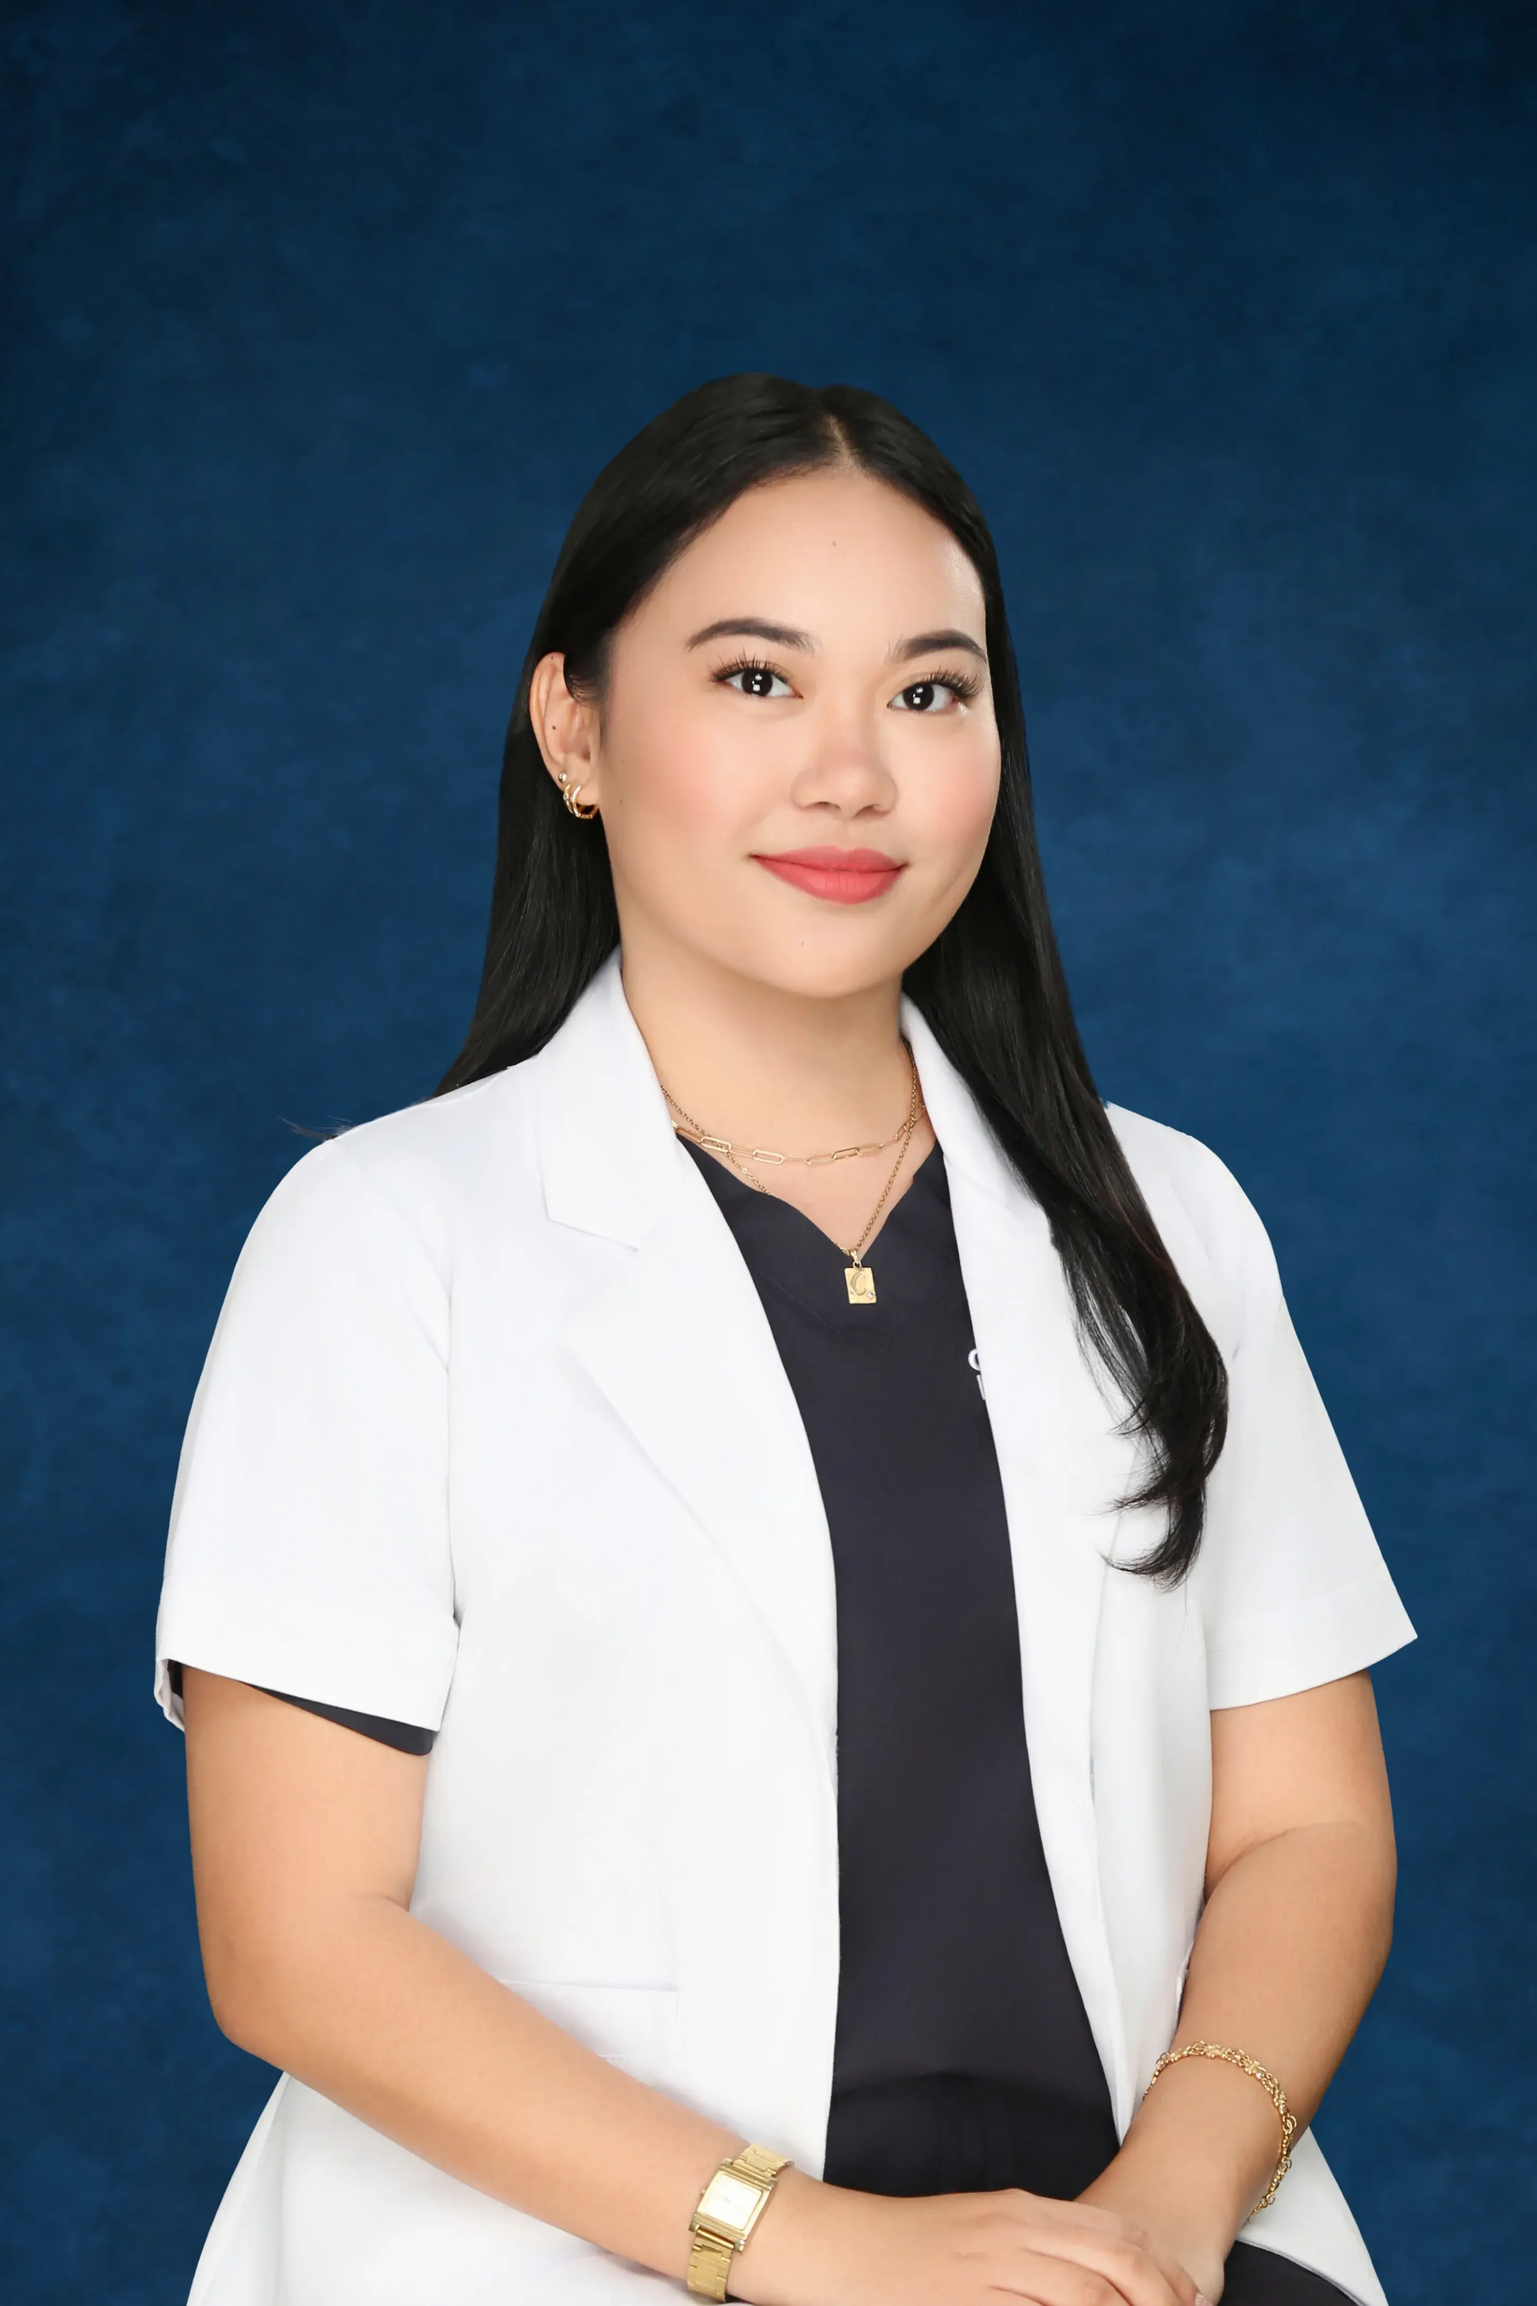
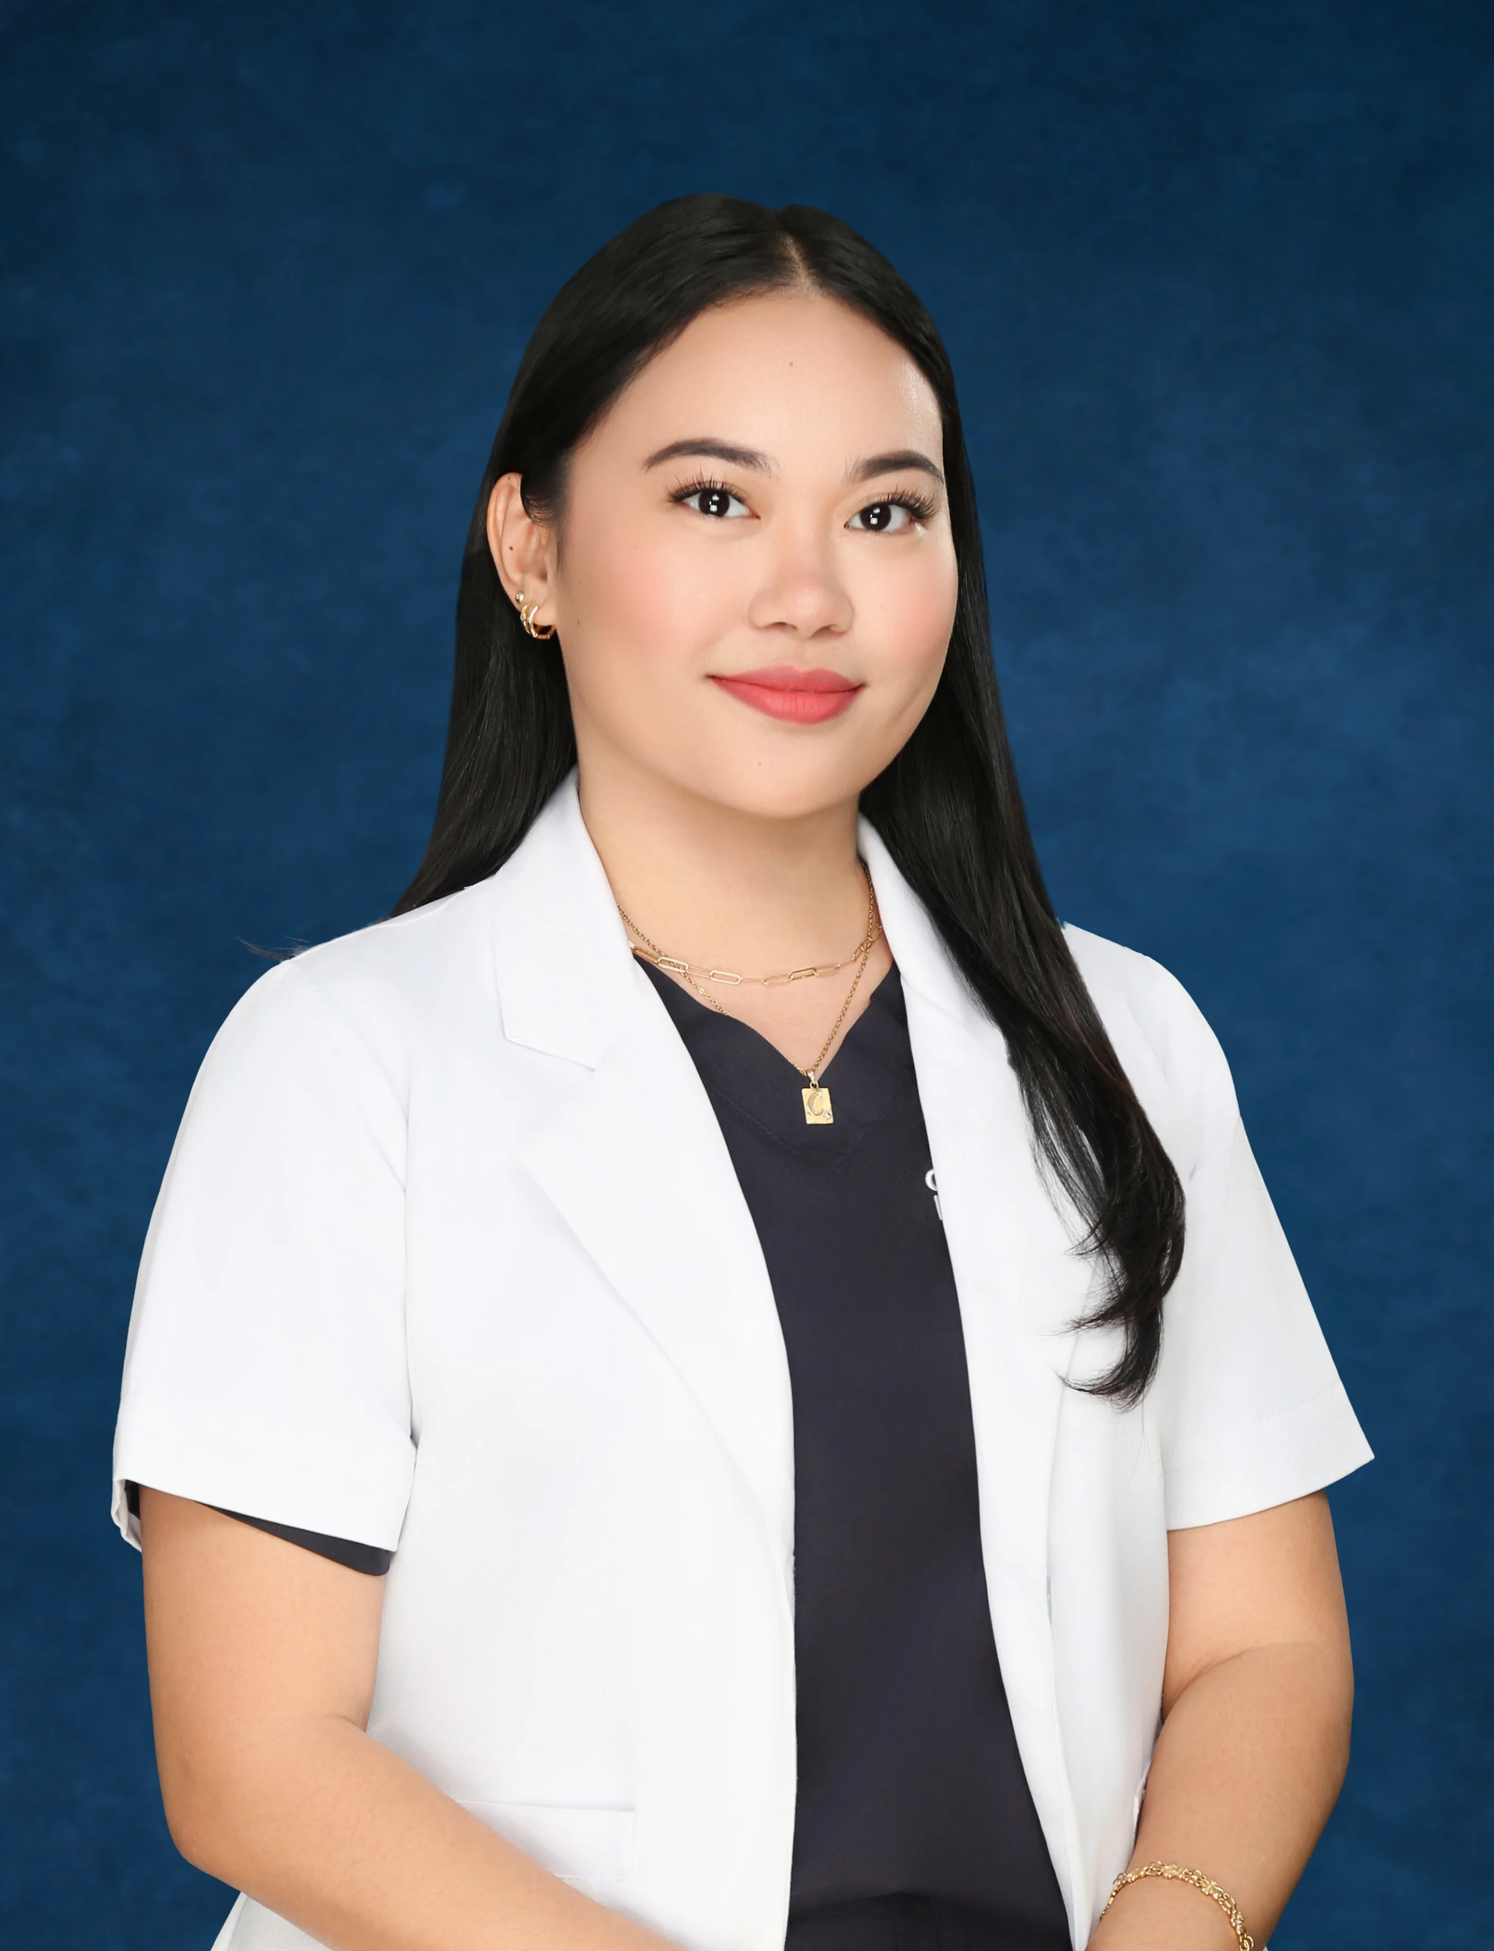
physical thyraphe faculty arrange

Changed region(s): [[0.0624, 0.0936, 0.9355, 1.0], [0.7796, 0.4993, 0.8108, 0.5305]]

diff --git a/physical-therapy.html b/physical-therapy.html
@@ -491,13 +491,8 @@
         <div class="relative mt-[70px] sm:mt-[80px] lg:mt-[92px]">
             <div class="absolute inset-0 bg-center">
                 <!-- style="background-image: url('assets/img/physical-theraphy-banner.webp');"> -->
-                 <img 
-                    src="assets/img/physical-theraphy-banner.webp"
-                    alt="Physical Therapy banner"
-                    loading="lazy"
-                    decoding="async"
-                    class="w-full h-full object-cover"
-                 />
+                <img src="assets/img/physical-theraphy-banner.webp" alt="Physical Therapy banner" loading="lazy"
+                    decoding="async" class="w-full h-full object-cover" />
             </div>
             <div class="absolute inset-0 bg-[#11243C]/65"></div>
             <header class="relative max-w-7xl mx-auto py-40 max-xl:pl-5 max-md:py-20">
@@ -1586,7 +1581,8 @@
                             </h2>
 
                             <div class="max-w-7xl mx-auto px-6 py-16">
-                                <div class="flex flex-col sm:flex-row justify-center items-center md:items-start gap-10 text-center">
+                                <div
+                                    class="flex flex-col sm:flex-row justify-center items-center md:items-start gap-10 text-center">
 
                                     <div class="max-w-[220px]">
                                         <a href="#" target="_blank">
@@ -1648,7 +1644,8 @@
                                 CEBU-BASED AFFILIATION CENTERS
                             </h2>
                             <div class="max-w-7xl mx-auto px-6 py-16">
-                                <div class="flex flex-col sm:flex-row justify-center items-center md:items-start gap-10 text-center">
+                                <div
+                                    class="flex flex-col sm:flex-row justify-center items-center md:items-start gap-10 text-center">
 
                                     <div class="max-w-[220px]">
                                         <a href="#" target="_blank">
@@ -1710,7 +1707,8 @@
                             </h2>
 
                             <div class="max-w-7xl mx-auto px-6 py-16">
-                                <div class="flex flex-col sm:flex-row justify-center items-center md:items-start gap-10 text-center">
+                                <div
+                                    class="flex flex-col sm:flex-row justify-center items-center md:items-start gap-10 text-center">
                                     <div class="max-w-[220px]">
                                         <a href="#" target="_blank">
                                             <img src="assets/img/negros-oriental-provincial-hospital.webp"
@@ -1746,7 +1744,8 @@
                             </h2>
 
                             <div class="max-w-7xl mx-auto px-6 py-16">
-                                <div class="flex flex-col sm:flex-row justify-center items-center md:items-start gap-10 text-center">
+                                <div
+                                    class="flex flex-col sm:flex-row justify-center items-center md:items-start gap-10 text-center">
                                     <div class="max-w-[220px]">
                                         <a href="#" target="_blank">
                                             <img src="assets/img/gold-rank.webp" alt="gold-rank" class="max-w-[240px] sm:max-w-[280px] md:max-w-[300px]
@@ -1782,69 +1781,46 @@
                     <h2 class="text-2xl font-semibold text-gray-900 mb-8 text-center wow fadeInDown">Faculty</h2>
 
                     <div class="mb-16">
-                        <h3 class="text-xl font-semibold text-gray-700 mb-4 wow fadeInUp text-center">Full-Time Faculty
-                        </h3>
-
                         <div class="text-center group mb-12 transition-all hover:scale-105 wow fadeInUp animated">
 
                             <div class="mx-auto rounded-full flex items-center justify-center mb-4">
                                 <img src="assets/img/odette-justro.webp" alt="Odette Justo"
                                     class="w-full md:w-100 h-auto md:h-120 object-cover rounded-full">
                             </div>
-                            <h4 class="text-md font-semibold text-gray-900">Professor Odette B. Justo</h4>
+                            <h4 class="text-md font-semibold text-gray-900">Prof. Odette Justo, MRS, PTRP</h4>
                             <p class="text-sm text-sky-700 font-medium mt-1">Program Chair</p>
 
                         </div>
 
                         <div
-                            class="grid grid-cols-1 md:grid-cols-2 lg:grid-cols-3 gap-8 mx-auto mb-12 wow fadeInUp animated">
+                            class="grid grid-cols-1 md:grid-cols-2 lg:grid-cols-4 gap-8 mx-auto mb-12 wow fadeInUp animated">
                             <div class="text-center group transition-all hover:scale-105">
 
                                 <div class="mx-auto rounded-full flex items-center justify-center mb-4">
-                                    <img src="assets/img/alaiza.webp" alt="Alaiza"
+                                    <img src="assets/img/alaiza.webp" alt="Alaiza Pacaldo"
                                         class="w-full md:w-100 h-auto md:h-120 object-cover rounded-full">
                                 </div>
-                                <h4 class="text-md font-semibold text-gray-900">Alaize Pacaldo, PTRP</h4>
+                                <h4 class="text-md font-semibold text-gray-900">Ms. Alaize Pacaldo, PTRP</h4>
 
                             </div>
 
                             <div class="text-center group transition-all hover:scale-105">
 
                                 <div class="mx-auto rounded-full flex items-center justify-center mb-4">
-                                    <img src="assets/img/edsel.webp" alt="Edsel"
+                                    <img src="assets/img/dave.webp" alt="Dave Kenneth"
                                         class="w-full md:w-100 h-auto md:h-120 object-cover rounded-full">
                                 </div>
-                                <h4 class="text-md font-semibold text-gray-900">Edsel Ian F. Martinez, PTRP</h4>
+                                <h4 class="text-md font-semibold text-gray-900">Mr. Dave Kenneth Cañedo, PTRP</h4>
 
                             </div>
 
                             <div class="text-center group transition-all hover:scale-105">
 
                                 <div class="mx-auto rounded-full flex items-center justify-center mb-4">
-                                    <img src="assets/img/francis.webp" alt="Francis"
+                                    <img src="assets/img/micah.webp" alt="Micah Martinezs"
                                         class="w-full md:w-100 h-auto md:h-120 object-cover rounded-full">
                                 </div>
-                                <h4 class="text-md font-semibold text-gray-900">Francis Rene B. Alesna, PTRP</h4>
-
-                            </div>
-
-                            <div class="text-center group transition-all hover:scale-105">
-
-                                <div class="mx-auto rounded-full flex items-center justify-center mb-4">
-                                    <img src="assets/img/dave.webp" alt="Dave"
-                                        class="w-full md:w-100 h-auto md:h-120 object-cover rounded-full">
-                                </div>
-                                <h4 class="text-md font-semibold text-gray-900">Dave Cañedo, PTRP</h4>
-
-                            </div>
-
-                            <div class="text-center group transition-all hover:scale-105">
-
-                                <div class="mx-auto rounded-full flex items-center justify-center mb-4">
-                                    <img src="assets/img/micah.webp" alt="Micah"
-                                        class="w-full md:w-100 h-auto md:h-120 object-cover rounded-full">
-                                </div>
-                                <h4 class="text-md font-semibold text-gray-900">Micah Martinez</h4>
+                                <h4 class="text-md font-semibold text-gray-900">Ms. Micah Martinez, PTRP</h4>
 
                             </div>
 
@@ -1854,7 +1830,7 @@
                                     <img src="assets/img/danica-kaye-demape.webp" alt="Danica Kaye Demape"
                                         class="w-full md:w-100 h-auto md:h-120 object-cover rounded-full">
                                 </div>
-                                <h4 class="text-md font-semibold text-gray-900">Danica Kaye Demape</h4>
+                                <h4 class="text-md font-semibold text-gray-900">Ms. Danica Kaye Demape, PTRP</h4>
 
                             </div>
 
@@ -1864,7 +1840,7 @@
                                     <img src="assets/img/krystine-arante.webp" alt="Krystine Arante"
                                         class="w-full md:w-100 h-auto md:h-120 object-cover rounded-full">
                                 </div>
-                                <h4 class="text-md font-semibold text-gray-900">Krystine Arante</h4>
+                                <h4 class="text-md font-semibold text-gray-900">Ms. Krystine Arante, PTRP</h4>
 
                             </div>
 
@@ -1874,7 +1850,7 @@
                                     <img src="assets/img/frances-james-monteroso.webp" alt="Frances James Monteroso"
                                         class="w-full md:w-100 h-auto md:h-120 object-cover rounded-full">
                                 </div>
-                                <h4 class="text-md font-semibold text-gray-900">Frances James Monteroso</h4>
+                                <h4 class="text-md font-semibold text-gray-900">Mr. Frances James Monteroso, PTRP</h4>
 
                             </div>
 
@@ -1884,46 +1860,17 @@
                                     <img src="assets/img/chiles-jianne-dabon.webp" alt="Chiles Jianne Dabon"
                                         class="w-full md:w-100 h-auto md:h-120 object-cover rounded-full">
                                 </div>
-                                <h4 class="text-md font-semibold text-gray-900">Chiles Jianne Dabon</h4>
-
-                            </div>
-                        </div>
-                    </div>
-
-
-                    <!-- PART TIME -->
-                    <div>
-                        <h3 class="text-xl font-semibold text-gray-700 mb-4 wow fadeInUp text-center">Part-Time Faculty
-                        </h3>
-
-                        <div class="grid grid-cols-1 sm:grid-cols-2 lg:grid-cols-3 gap-6 wow fadeInUp">
-                            <div class="text-center group transition-all hover:scale-105">
-
-                                <div class="mx-auto rounded-full flex items-center justify-center mb-4">
-                                    <img src="assets/img/jerell.webp" alt="Jerell"
-                                        class="w-full md:w-100 h-auto md:h-120 object-cover rounded-full">
-                                </div>
-                                <h4 class="text-md font-semibold text-gray-900">Jerell Catacutan, MPT, PTRP</h4>
+                                <h4 class="text-md font-semibold text-gray-900">Ms. Chiles Jianne L. Dabon, PTRP</h4>
 
                             </div>
 
                             <div class="text-center group transition-all hover:scale-105">
 
                                 <div class="mx-auto rounded-full flex items-center justify-center mb-4">
-                                    <img src="assets/img/marizzah.webp" alt="Marizzah"
+                                    <img src="assets/img/jenica.webp" alt="Jenica Louise Salazar"
                                         class="w-full md:w-100 h-auto md:h-120 object-cover rounded-full">
                                 </div>
-                                <h4 class="text-md font-semibold text-gray-900">Marizzah C. Sumarago, PT, MSPT, PTRP</h4>
-
-                            </div>
-
-                            <div class="text-center group transition-all hover:scale-105">
-
-                                <div class="mx-auto rounded-full flex items-center justify-center mb-4">
-                                    <img src="assets/img/jenica.webp" alt="Jenica"
-                                        class="w-full md:w-100 h-auto md:h-120 object-cover rounded-full">
-                                </div>
-                                <h4 class="text-md font-semibold text-gray-900">Jenica Louise Salazar, PTRP, DCE</h4>
+                                <h4 class="text-md font-semibold text-gray-900">Ms. Jenica Louise Salazar, PTRP</h4>
 
                             </div>
                         </div>
@@ -2051,7 +1998,9 @@
                                 <img src="assets/img/brand-logo-white.webp" alt="FooterLogo">
                             </a>
                         </div>
-                         <p class="text-[12px] mt-5">Providing international education in Cebu, Philippines. We cultivate global talent through diverse academic programs and produce individuals who contribute to the international community.</p>
+                        <p class="text-[12px] mt-5">Providing international education in Cebu, Philippines. We cultivate
+                            global talent through diverse academic programs and produce individuals who contribute to
+                            the international community.</p>
                         <div class="mt-6 flex gap-3">
                             <a href="https://www.facebook.com/LapulapuCebuInternationalCollege" aria-label="Facebook"
                                 class="grid h-10 w-10 place-items-center rounded-md bg-white/20 hover:bg-white/30">
@@ -2079,11 +2028,11 @@
                 </div>
                 <div class="mt-10 border-t border-white/10 pt-6">
                     <div class="flex flex-col-reverse items-start gap-4 lg:flex-row lg:items-center lg:justify-between">
-                        <p class="text-xs text-white/80">©2026 Lapulapu-Cebu International College. All rights reserved.</p>
+                        <p class="text-xs text-white/80">©2026 Lapulapu-Cebu International College. All rights reserved.
+                        </p>
                         <ul class="flex flex-wrap gap-x-8 gap-y-2 text-sm text-white/80">
                             <li>
-                                <a href="privacy-policy.html"
-                                    class="hover:text-white">Privacy Policy</a>
+                                <a href="privacy-policy.html" class="hover:text-white">Privacy Policy</a>
                             </li>
                             <li>
                                 <a href="sitemap.html" class="hover:text-white">Sitemap</a>
